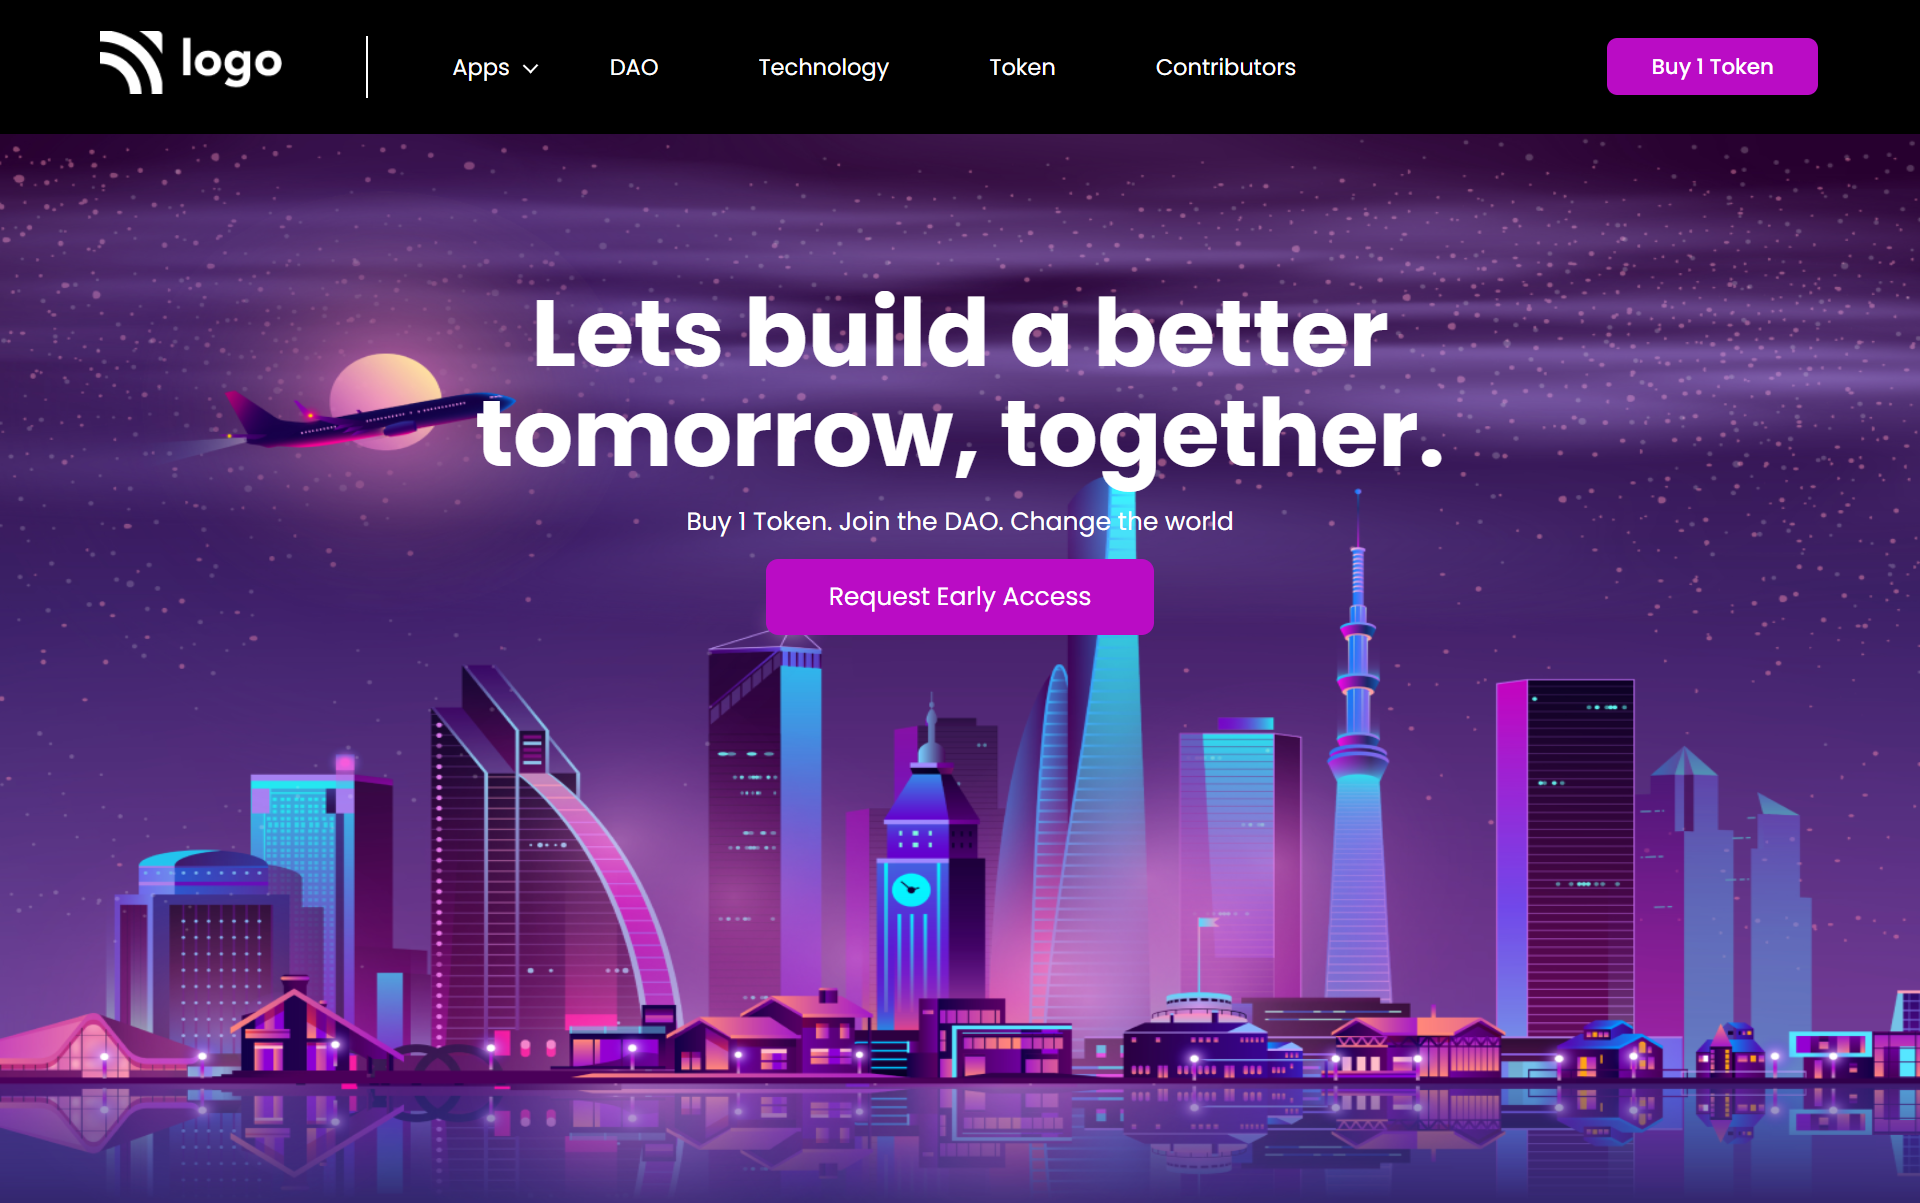
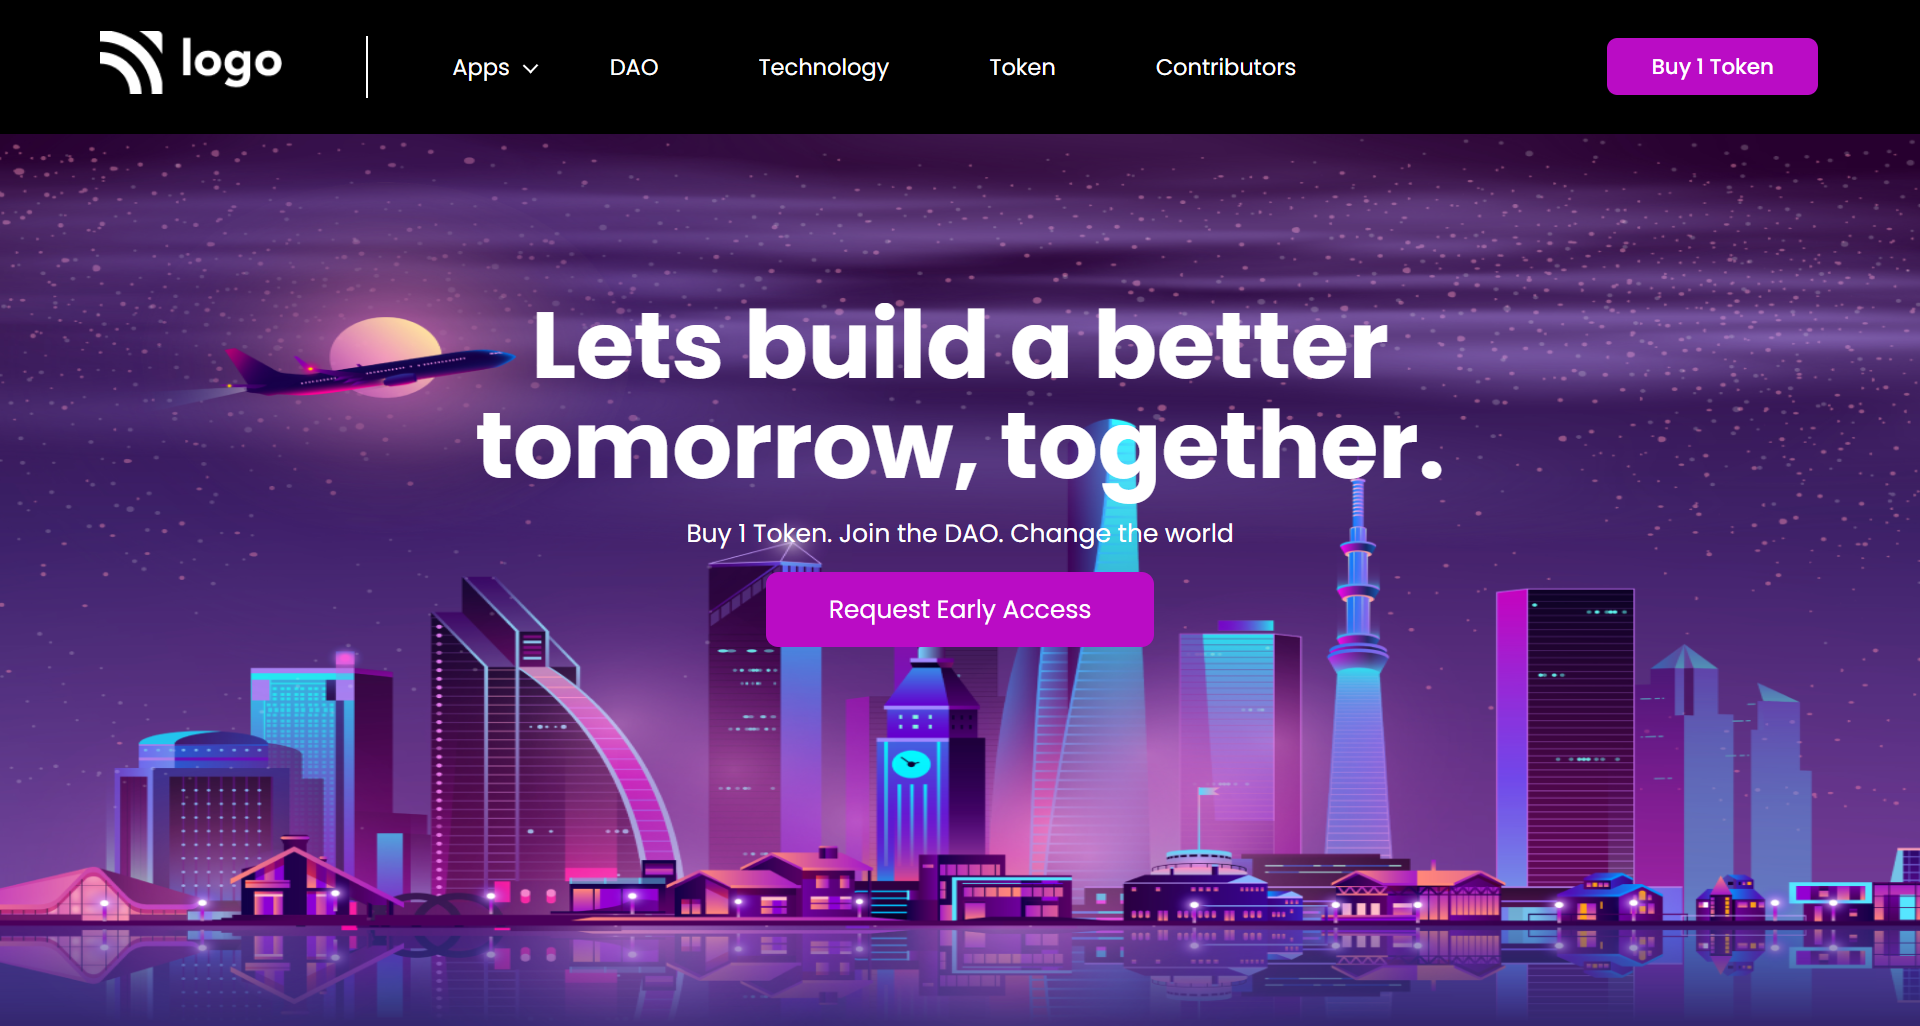
Initial Commit

diff --git a/style.css b/style.css
@@ -69,7 +69,7 @@ h1 {
   font-family: poppins;
   line-height: 80px;
   padding: 0px 250px;
-  padding-top: 120px;
+  padding-top: 130px;
   padding-bottom: 0px;
 }
 p {

diff --git a/readme.md b/readme.md
@@ -25,5 +25,5 @@
 
 ### **🚀LIVE LINK:**
 -  This project is hosted on **Netlify**.You can Check it live using below link: 
--  [Project Live Link !](https://631c3db695a3650ea14f6663--unique-cannoli-a2717a.netlify.app/)
+-  [Project Live Link !](https://631c44675fa595130bff8f8e--singular-selkie-3a1055.netlify.app/)
 
